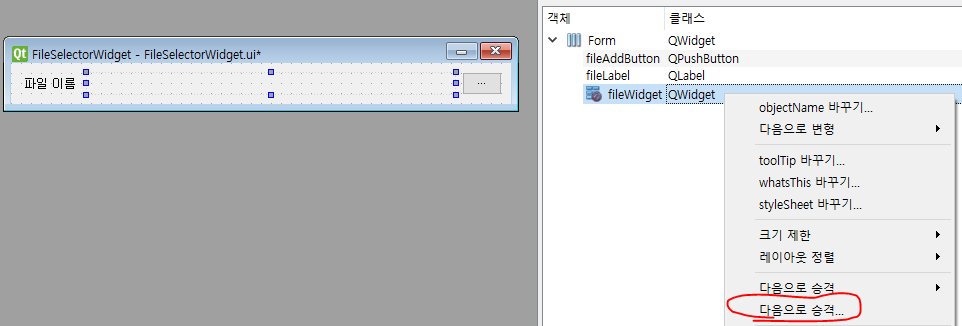
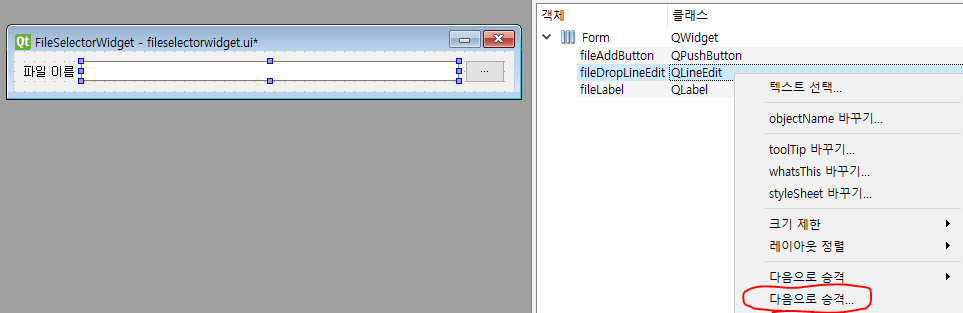
Update 2023-04-20-QT-file-select-2.md

Changed region(s): [[0.0, 0.0, 1.0, 1.0], [0.7484, 0.8626, 0.9044, 1.0], [0.7796, 0.4601, 0.9044, 0.5751]]

diff --git a/_posts/2023-04-20-QT-file-select-2.md b/_posts/2023-04-20-QT-file-select-2.md
@@ -1,0 +1,165 @@
+---
+title: QT 파일 선택 위젯 만들기(2)
+categories: [QT]
+tags: [QT, Python]
+comments: true
+---
+
+[파일 선택 위젯(1)](https://soo-bin.github.io/posts/QT-file_select_1/) 보다 기능이 추가된 위젯을 만들 것이다.
+
+탐색기에 있는 파일/폴더를 끌어다 놓거나 버튼을 눌러 파일/폴더를 추가/삭제할 수 있다.
+
+## Drop 이벤트를 처리할 수 있는 Tree Widget 만들기
+
+```python
+'''
+filedroptreewidget.py
+'''
+import os
+from PyQt5.QtWidgets import QTreeWidget, QTreeWidgetItem
+from PyQt5.QtCore import Qt
+from PyQt5.QtGui import QIcon
+
+class FileDropTreeWidget(QTreeWidget):
+    def __init__(self, parent=None):
+        super().__init__(parent)
+
+        self.setHeaderHidden(True)
+        self.setSelectionMode(QTreeWidget.ExtendedSelection)
+        self.setAlternatingRowColors(True)
+
+        # 드롭 이벤트를 받도록 설정
+        self.setAcceptDrops(True)
+
+    # 드래그 앤 드롭 액션이 들어갈 때 위젯으로 보내는 이벤트
+    def dragEnterEvent(self, event):
+        if event.mimeData().hasUrls():
+            event.accept()
+        else:
+            event.ignore()
+
+    # 드래그 앤 드롭 동작이 진행되는 동안 전송되는 이벤트
+    def dragMoveEvent(self, event):
+        if event.mimeData().hasUrls():
+            event.setDropAction(Qt.CopyAction)
+            event.accept()
+        else:
+            event.ignore()
+
+    # 드래그 앤 드롭 동작이 완료되면 전송되는 이벤트
+    def dropEvent(self, event):
+        # 드랍된 파일 정보 가져오기
+        if event.mimeData().hasUrls():
+            event.setDropAction(Qt.CopyAction)
+            event.accept()
+            for url in event.mimeData().urls():
+                path = str(url.toLocalFile())
+                if os.path.isfile(path):
+                    # 파일인 경우에는 QTreeWidgetItem을 생성하여 TreeWidget에 추가
+                    self.add_file_icon_item(path)
+                else:
+                    self.add_folder_icon_item(path)
+        else:
+            event.ignore()
+
+    def add_file_icon_item(self, root):
+        item = QTreeWidgetItem(self, [root])
+        item.setIcon(0, QIcon("icon/mIconFile.svg"))  # 파일 아이콘 설정
+        self.addTopLevelItem(item)
+
+    def add_folder_icon_item(self, root):
+        item = QTreeWidgetItem(self, [root])
+        item.setIcon(0, QIcon("icon/mIconFolder.svg"))  # 폴더 아이콘 설정
+        self.addTopLevelItem(item)
+        self.add_subdirs(item, root)
+
+    def add_subdirs(self, parent, root):
+        for dirpath, dirs, files in os.walk(root):
+            for dir_name in dirs:
+                sub_dir_path = os.path.join(dirpath, dir_name)
+                sub_dir_item = QTreeWidgetItem(parent, [sub_dir_path])
+                sub_dir_item.setIcon(0, QIcon("icon/mIconFolder.svg"))
+                parent.addChild(sub_dir_item)
+                self.add_subdirs(sub_dir_item, sub_dir_path)
+
+            for filename in files:
+                file_path = os.path.join(dirpath, filename)
+                file_item = QTreeWidgetItem(parent, [file_path])
+                file_item.setIcon(0, QIcon("icon/mIconFile.svg"))  # 파일 아이콘 설정
+                parent.addChild(file_item)
+```
+
+## Drop 이벤트 검증 및 파일 선택 위젯 만들기
+
+1. 아래 그림과 같은 Form을 만든다. Tree Widget은 FileDropTreeWidget으로 승격시킨다.
+   ![qt_trd_1](/assets/img/post/qt_trd_1.png)
+2. 추가된 버튼들에도 기능을 추가해준다.
+
+```python
+'''
+fileselectorlistwidget.py
+'''
+import sys
+from PyQt5.QtWidgets import *
+from PyQt5 import uic
+
+# UI 파일 로드
+form_class = uic.loadUiType("fileselectorlistwidget.ui")[0]
+
+class FileSelectorListWidget(QWidget, form_class):
+    def __init__(self):
+        super().__init__()
+        self.setupUi(self)
+
+        # 버튼에 대한 이벤트 처리
+        self.btnFileAdd.clicked.connect(self.add_file)
+        self.btnFileRemove.clicked.connect(self.remove_item)
+        self.btnFolderAdd.clicked.connect(self.add_folder)
+
+    def add_file(self):
+        # 파일 선택 다이얼로그 생성
+        file_dialog = QFileDialog(self)
+        file_dialog.setFileMode(QFileDialog.ExistingFiles)
+        if file_dialog.exec_():
+            file_names = file_dialog.selectedFiles()
+
+            # 선택된 파일들 Tree Widget에 추가
+            for file_name in file_names:
+                self.fileTreeWidget.add_file_icon_item(file_name)
+
+    def remove_item(self):
+        # 선택된 아이템 삭제
+        root = self.fileTreeWidget.invisibleRootItem()
+        for item in self.fileTreeWidget.selectedItems():
+            (item.parent() or root).removeChild(item)
+
+    def add_folder(self):
+        # 폴더 선택 다이얼로그 생성
+        dir_dialog = QFileDialog(self)
+        dir_dialog.setFileMode(QFileDialog.Directory)
+        if dir_dialog.exec_():
+            dir_name = dir_dialog.selectedFiles()[0]
+
+            # 선택된 폴더 Tree Widget에 추가
+            self.fileTreeWidget.add_folder_icon_item(dir_name)
+
+if __name__ == "__main__":
+    # QApplication 인스턴스 생성
+    app = QApplication(sys.argv)
+    myWindow = FileSelectorListWidget()
+    myWindow.show()
+    app.exec_()
+```
+
+- **`invisibleRootItem()`** : QTreeWidget 클래스에서 제공하는 트리 위젯의 루트 아이템을 반환하는 메소드
+
+- **`(item.parent() or root).removeChild(item)`** : `item.parent()`는 item의 부모 item을 반환합니다. 만약 item이 top-level item이라면 부모가 없으므로 `None`을 반환. `item.parent()`가 `None`인 경우에는 `root.removeChild(item)`을 실행하고, 그렇지 않은 경우에는 `item.parent().removeChild(item)`
+  을 실행
+
+|                                            |                                            |
+| ------------------------------------------ | ------------------------------------------ |
+| ![qt_trd_2](/assets/img/post/qt_trd_2.png) | ![qt_trd_3](/assets/img/post/qt_trd_3.png) |
+
+### Icon Source
+
+- [https://github.com/qgis/QGIS/tree/master/images/themes/default](https://github.com/qgis/QGIS/tree/master/images/themes/default)

diff --git a/_posts/2023-04-18-QT-file-select-1.md b/_posts/2023-04-18-QT-file-select-1.md
@@ -11,7 +11,7 @@ comments: true
 
 ```python
 '''
-FileDropLineEdit.py
+filedroplineedit.py
 '''
 from PyQt5.QtWidgets import QLineEdit, QToolButton
 from PyQt5.QtGui import QDragEnterEvent, QDropEvent
@@ -59,21 +59,24 @@ class FileDropLineEdit(QLineEdit):
             self.setText(all_files[:-1])
 ```
 
-`setReadOnly(True)`를 호출하면 QLineEdit 위젯을 사용자가 수정할 수 없도록 설정한다. 이 설정 때문에 사용자가 Clear 버튼을 누르는 것과 같은 수정 작업을 수행하면 `textChanged()` 시그널은 발생하지 않는다.
+**`setReadOnly(True)`**를 호출하면 QLineEdit 위젯을 사용자가 수정할 수 없도록 설정한다. 이 설정 때문에 사용자가 Clear 버튼을 누르는 것과 같은 수정 작업을 수행하면 `textChanged()` 시그널은 발생하지 않는다.
 
-따라서, `findChild(QToolButton).setEnabled(True)`를 호출하여 Clear 버튼을 활성화해 준다. 이렇게 하면 Clear 버튼을 누를 때 `textChanged()` 시그널이 발생한다.
+따라서, **`findChild(QToolButton).setEnabled(True)`**를 호출하여 Clear 버튼을 활성화해 준다. 이렇게 하면 Clear 버튼을 누를 때 `textChanged()` 시그널이 발생한다.
 
-## Drop 이벤트 검증 및 파일 선택 위젯 만들기
+## 파일 선택 위젯 만들기
 
-1. 빈 Widget을 하나 생성한 뒤, **QLabel, QWidget, QPushButton**을 추가한다.
-2. QWidget을 FileDropLineEdit으로 승격시킨다.
-   ![qt_sec_1](/assets/img/post/qt_sec_1.png)
-   ![qt_sec_2](/assets/img/post/qt_sec_2.png){: width="60%"}
-3. 끌어다 놓기 이외에도 파일 추가 버튼을 눌러 파일을 추가할 수 있도록 한다.
+1. 빈 Widget을 하나 생성한 뒤, **QLabel, QLineEdit, QPushButton**을 추가한다.
+2. QLineEdit을 FileDropLineEdit으로 승격시킨다.
+
+![qt_sec_1](/assets/img/post/qt_sec_1.png)
+
+![qt_sec_2](/assets/img/post/qt_sec_2.png)
+
+1. 끌어다 놓기 이외에도 파일 추가 버튼을 눌러 파일을 추가할 수 있도록 한다.
 
 ```python
 '''
-FileSelectorWidget.py
+fileselectorwidget.py
 '''
 import sys
 from PyQt5.QtWidgets import *
@@ -81,7 +84,7 @@ from PyQt5.QtCore import pyqtSignal
 from PyQt5 import uic
 
 # UI 파일 로드
-form_class = uic.loadUiType("FileSelectorWidget.ui")[0]
+form_class = uic.loadUiType("fileselectorwidget.ui")[0]
 
 class FileSelectorWidget(QWidget, form_class):
     # 파일 첨부 시그널
@@ -91,7 +94,7 @@ class FileSelectorWidget(QWidget, form_class):
         super(FileSelectorWidget, self).__init__(parent)
         self.setupUi(self)
 
-        self.fileWidget.fileDropped.connect(self.handle_drop_file)
+        self.fileDropLineEdit.fileDropped.connect(self.handle_drop_file)
         self.fileAddButton.clicked.connect(self.handle_upload_file)
         self.fileAddButton.setStyleSheet(
             "padding: 3px;"
